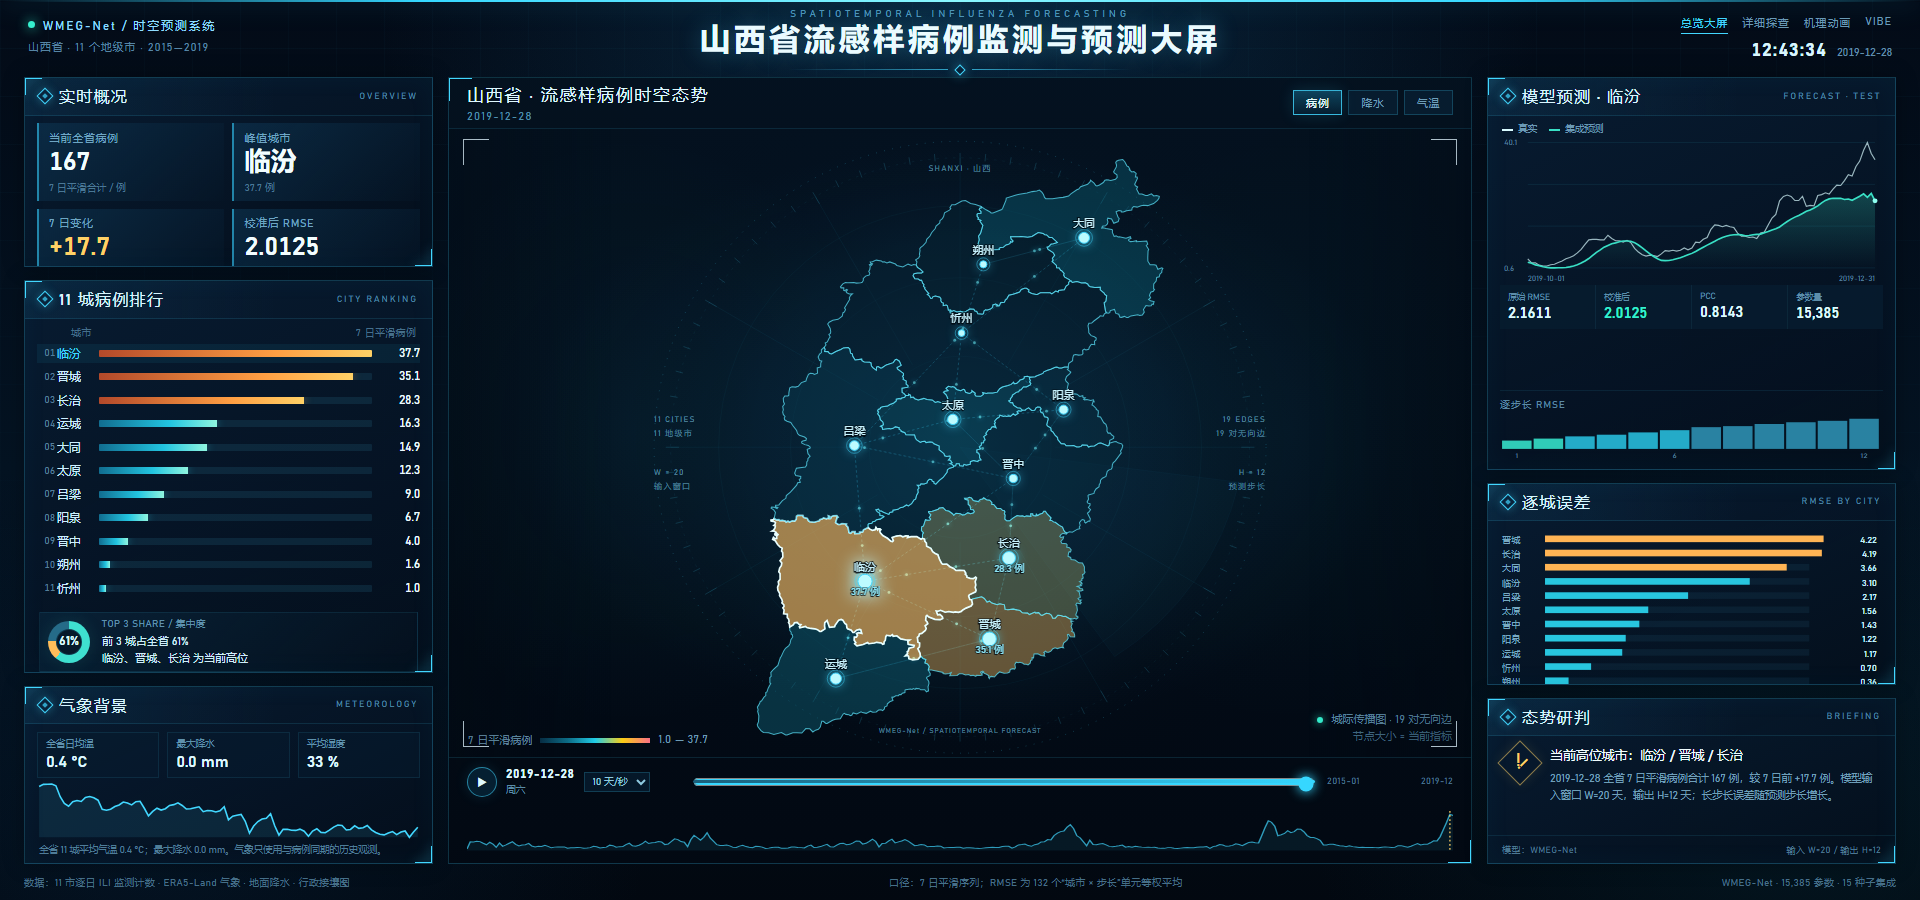
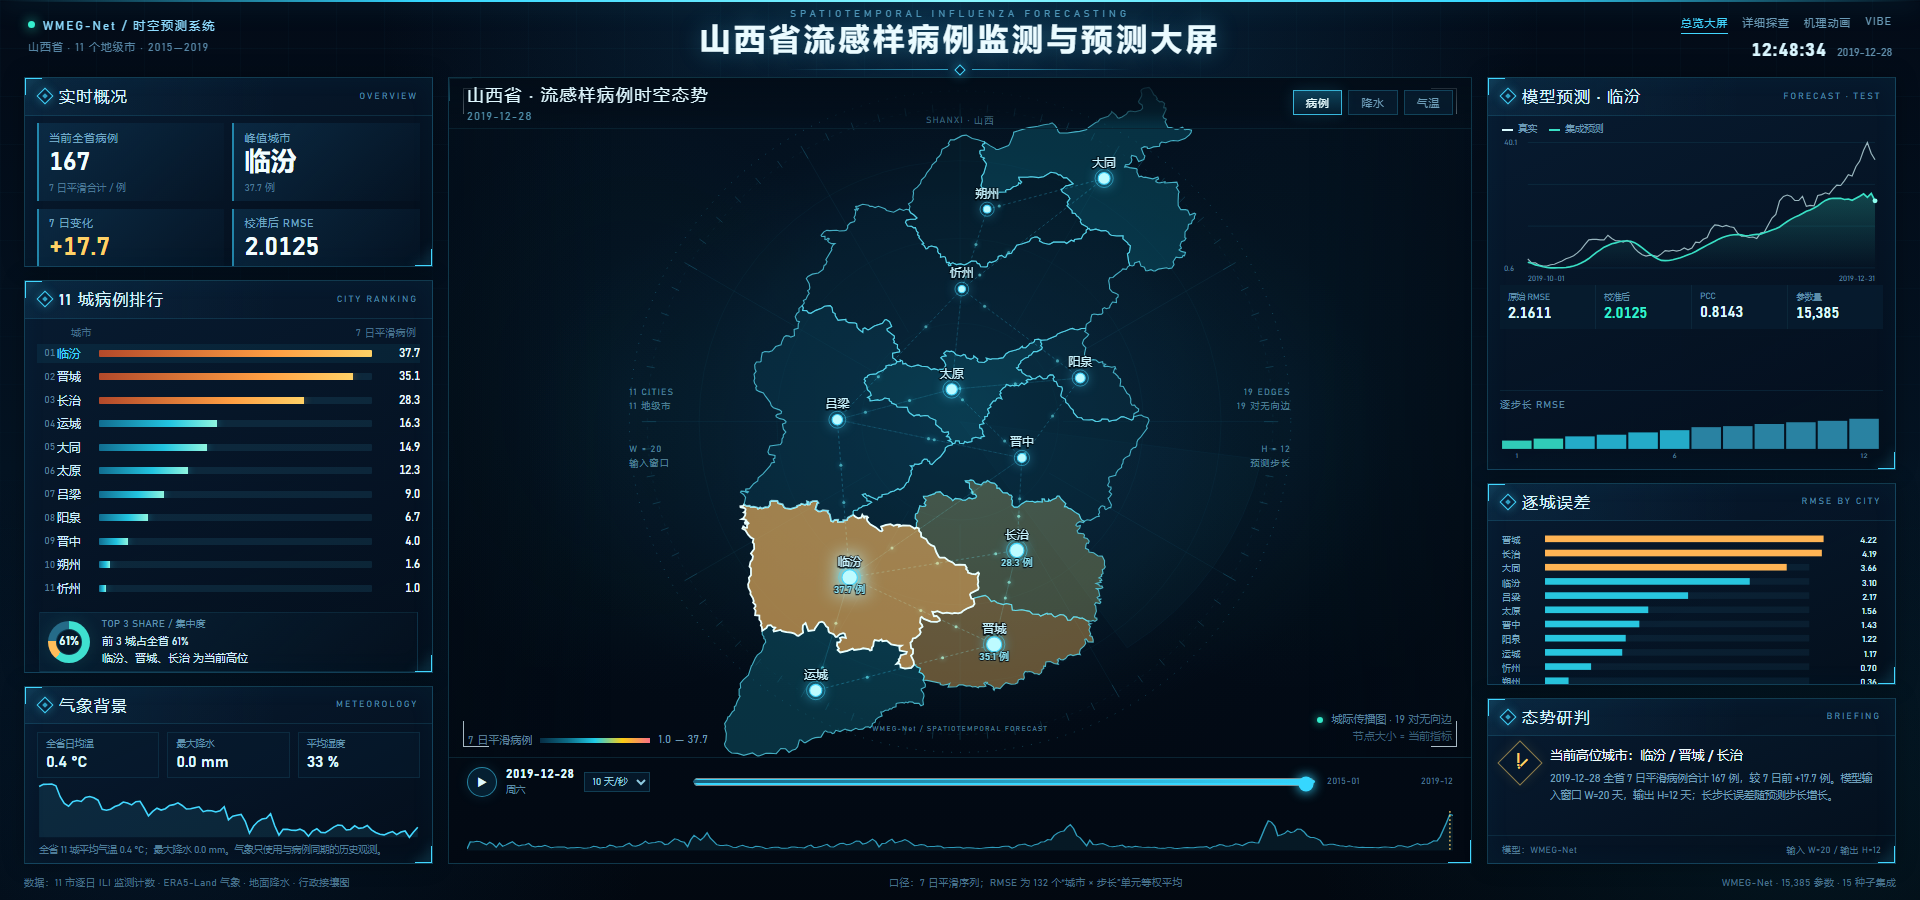
style: enlarge central map with overlay header and minimal projection padding

diff --git a/assets/screen.css b/assets/screen.css
@@ -100,7 +100,8 @@ body{display:block;position:relative}
 .map-panel:before,.map-panel:after{content:"";position:absolute;width:22px;height:22px;z-index:2;pointer-events:none}
 .map-panel:before{left:-1px;top:-1px;border-left:2px solid var(--cyan);border-top:2px solid var(--cyan)}
 .map-panel:after{right:-1px;bottom:-1px;border-right:2px solid var(--cyan);border-bottom:2px solid var(--cyan)}
-.map-head{height:var(--map-head-h);display:flex;align-items:center;padding:0 18px;border-bottom:1px solid rgba(66,215,255,.12)}
+.map-head{position:absolute;left:0;right:0;top:0;height:var(--map-head-h);display:flex;align-items:center;padding:0 18px;border-bottom:1px solid rgba(66,215,255,.10);z-index:6;pointer-events:none;background:linear-gradient(180deg,rgba(3,13,24,.92),rgba(3,13,24,.58) 68%,transparent)}
+.map-head .map-tabs{pointer-events:auto}
 .map-title span{display:block;font-size:17px;letter-spacing:.1em;color:#dff8ff}
 .map-title b{display:block;margin-top:3px;font-size:11px;letter-spacing:.12em;color:#4f8fab;font-weight:400}
 .map-tabs{margin-left:auto;display:flex;gap:6px}

diff --git a/assets/screen.js b/assets/screen.js
@@ -46,8 +46,8 @@ function projectSetup(){
   });
   var minx=Infinity,maxx=-Infinity,miny=Infinity,maxy=-Infinity;
   coords.forEach(function(c){minx=Math.min(minx,c[0]);maxx=Math.max(maxx,c[0]);miny=Math.min(miny,c[1]);maxy=Math.max(maxy,c[1])});
-  var pad=32,W=900,H=760;
-  var sc=Math.min((W-pad*2)/(maxx-minx),(H-pad*2)/(maxy-miny));
+  var padX=8,padY=6,W=900,H=760;
+  var sc=Math.min((W-padX*2)/(maxx-minx),(H-padY*2)/(maxy-miny));
   var ox=(W-(maxx-minx)*sc)/2,oy=(H-(maxy-miny)*sc)/2;
   MAP={W:W,H:H,project:function(lon,lat){return [ox+(lon-minx)*sc,oy+(maxy-lat)*sc]},bounds:{minx:minx,maxx:maxx,miny:miny,maxy:maxy}};
 }
